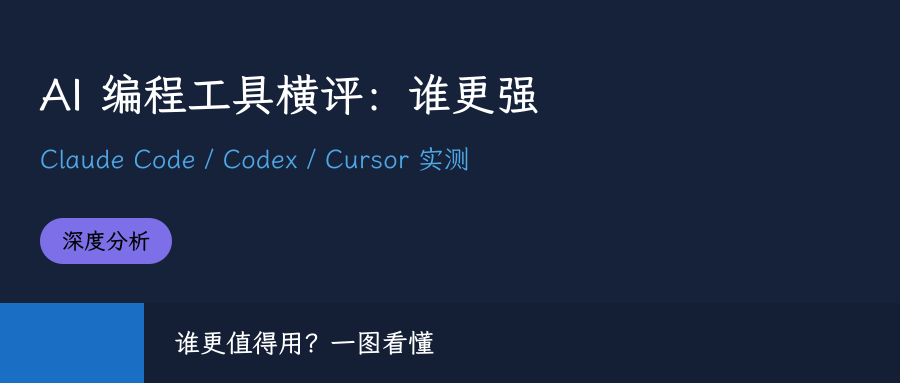
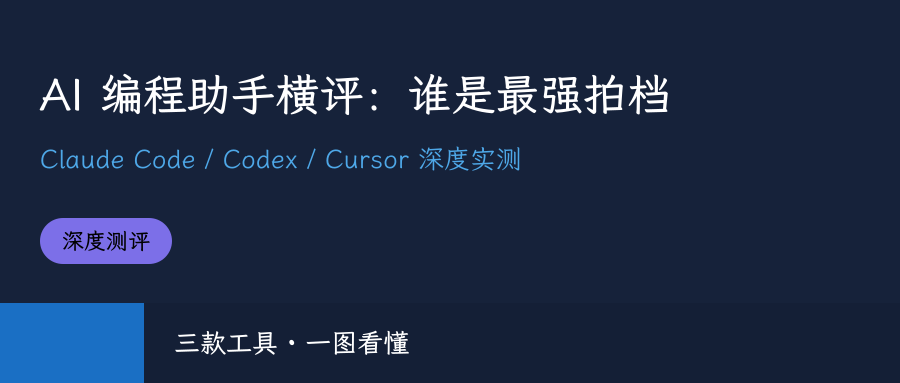
docs: 效果演示升级为 6 张丰富示例（封面/信息图/配色卡/金句卡/竖版海报/横版Banner），修正 .gitignore 纳入 examples

diff --git a/README.md b/README.md
@@ -32,21 +32,38 @@
 
 ## 效果演示
 
-以下三张图均由 `scripts/gen.py` 一键生成（文案 → 套配色卡 → 自动排版 → 校验 → 渲染）：
+以下示例均由本 skill 一键生成（选配色卡 → 自动排版 → 静态校验 → 渲染），展示三种内容类型、任意比例、丰富排版能力：
+
+### 公众号封面（深海蓝 · 900×383，2.35:1）
+
+标题自动换行 + 徽章 + 底部结论条，一次生成：
 
 <p align="center">
-  <img src="examples/cover.png" width="560" alt="公众号封面 · 深海蓝配色"><br>
-  <em>公众号封面 · 深海蓝配色（900×383，2.35:1）</em>
+  <img src="examples/cover.png" width="600" alt="公众号封面 · 深海蓝配色">
 </p>
 
-<p align="center">
-  <img src="examples/infographic.png" width="560" alt="正文信息图 · 墨玉青配色"><br>
-  <em>正文信息图 · 墨玉青配色（900×520）</em>
-</p>
+### 正文信息图（教育 · 900×640，4 要点带说明）
+
+编号卡片 + 标题/说明双行排版 + 底部结论条：
 
 <p align="center">
-  <img src="examples/quote.png" width="420" alt="金句卡 · 绛紫霞配色"><br>
-  <em>金句卡 · 绛紫霞配色（900×900）</em>
+  <img src="examples/infographic.png" width="600" alt="正文信息图 · 教育配色">
+</p>
+
+### 配色卡 · 金句卡 · 竖版海报（三列）
+
+<p align="center">
+  <img src="examples/palette-card.png" width="30%" alt="配色卡 · 深海蓝">
+  <img src="examples/quote.png" width="30%" alt="金句卡 · 曜石黑金">
+  <img src="examples/poster.png" width="30%" alt="竖版海报 · 绛紫霞（3:4）">
+</p>
+
+### 横版 Banner（晨雾蓝灰 · 16:9）
+
+用 `--aspect 16:9 --width 1200` 一键切任意比例：
+
+<p align="center">
+  <img src="examples/banner.png" width="600" alt="横版 Banner · 晨雾蓝灰（16:9）">
 </p>
 
 ## 快速开始
